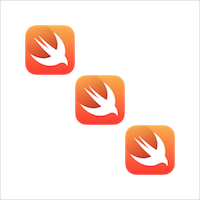
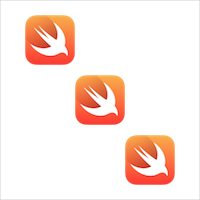
Use `gap` in abreast methods

Changed region(s): [[0.6, 0.6, 0.9, 0.93], [0.12, 0.06, 0.39, 0.39]]

diff --git a/Sources/ConstraintMaker+Abreast.swift b/Sources/ConstraintMaker+Abreast.swift
@@ -29,13 +29,13 @@ extension ConstraintMaker {
     
     /// Make item.top equalTo item2.bottom + constant
     @discardableResult
-    public func below(_ item2: UILayoutSupport, plus constant: CGFloat = 0, at priority: UILayoutPriority = UILayoutPriorityRequired) -> Self {
+    public func below(_ item2: UILayoutSupport, gap constant: CGFloat = 0, at priority: UILayoutPriority = UILayoutPriorityRequired) -> Self {
         return makeConstraint(attribute: .top, relatedBy: .equal, toItem: item2, attribute: .bottom, multiplier: 1, constant: constant, priority: priority)
     }
     
     /// Make item.bottom equalTo item2.top - constant
     @discardableResult
-    public func above(_ item2: UILayoutSupport, minus constant: CGFloat = 0, at priority: UILayoutPriority = UILayoutPriorityRequired) -> Self {
+    public func above(_ item2: UILayoutSupport, gap constant: CGFloat = 0, at priority: UILayoutPriority = UILayoutPriorityRequired) -> Self {
         return makeConstraint(attribute: .bottom, relatedBy: .equal, toItem: item2, attribute: .top, multiplier: 1, constant: -constant, priority: priority)
     }
     
@@ -45,13 +45,13 @@ extension ConstraintMaker {
     
     /// Make item.top equalTo item2.bottom + constant
     @discardableResult
-    public func below(_ item2: Item, plus constant: CGFloat = 0, at priority: UILayoutPriority = UILayoutPriorityRequired) -> Self {
+    public func below(_ item2: Item, gap constant: CGFloat = 0, at priority: UILayoutPriority = UILayoutPriorityRequired) -> Self {
         return top(equalTo: .bottom, of: item2, plus: constant, at: priority)
     }
     
     /// Make item.bottom equalTo item2.top - constant
     @discardableResult
-    public func above(_ item2: Item, minus constant: CGFloat = 0, at priority: UILayoutPriority = UILayoutPriorityRequired) -> Self {
+    public func above(_ item2: Item, gap constant: CGFloat = 0, at priority: UILayoutPriority = UILayoutPriorityRequired) -> Self {
         return bottom(equalTo: .top, of: item2, minus: constant, at: priority)
     }
     
@@ -61,13 +61,13 @@ extension ConstraintMaker {
     
     /// Make item.leading equalTo item2.trailing + constant
     @discardableResult
-    public func after(_ item2: Item, plus constant: CGFloat = 0, at priority: UILayoutPriority = UILayoutPriorityRequired) -> Self {
+    public func after(_ item2: Item, gap constant: CGFloat = 0, at priority: UILayoutPriority = UILayoutPriorityRequired) -> Self {
         return leading(equalTo: .trailing, of: item2, plus: constant, at: priority)
     }
     
     /// Make item.trailing equalTo item2.leading - constant
     @discardableResult
-    public func before(_ item2: Item, minus constant: CGFloat = 0, at priority: UILayoutPriority = UILayoutPriorityRequired) -> Self {
+    public func before(_ item2: Item, gap constant: CGFloat = 0, at priority: UILayoutPriority = UILayoutPriorityRequired) -> Self {
         return trailing(equalTo: .leading, of: item2, minus: constant, at: priority)
     }
     

diff --git a/Documentation/Doc.playground/Pages/Abreast.xcplaygroundpage/Contents.swift b/Documentation/Doc.playground/Pages/Abreast.xcplaygroundpage/Contents.swift
@@ -7,9 +7,9 @@ import FormationLayout
  ## Abreast
  ----
  
-- layout[logo].below(topLayoutGuide, plus: 10)
+- layout[logo].below(topLayoutGuide, gap: 10)
   - logo.top == topLayoutGuide.bottom + 10
-- layout[copyright].above(bottomLayoutGuide, minus: 10)
+- layout[copyright].above(bottomLayoutGuide, gap: 10)
   - copyright.bottom == bottomLayoutGuide.top - 10
  
  */
@@ -17,8 +17,8 @@ import FormationLayout
 demo { canvas, icon1, icon2, icon3 in
     let layout = FormationLayout(rootView: canvas)
     layout[icon1].center(equalTo: canvas)
-    layout[icon2].before(icon1).above(icon1)
-    layout[icon3].after(icon1).below(icon1)
+    layout[icon2].before(icon1).above(icon1, gap: 5)
+    layout[icon3].after(icon1).below(icon1, gap: 5)
 }
 
 //: [Home](Home) | [Previous](@previous) | [Next](@next)

diff --git a/README.md b/README.md
@@ -94,17 +94,17 @@ demo { canvas, icon1, icon2, icon3 in
 
 ### Abreast
 
-- layout[logo].below(topLayoutGuide, plus: 10)
+- layout[logo].below(topLayoutGuide, gap: 10)
   - logo.top == topLayoutGuide.bottom + 10
-- layout[copyright].above(bottomLayoutGuide, minus: 10)
+- layout[copyright].above(bottomLayoutGuide, gap: 10)
   - copyright.bottom == bottomLayoutGuide.top - 10
 
 ```swift
 demo { canvas, icon1, icon2, icon3 in
     let layout = FormationLayout(rootView: canvas)
     layout[icon1].center(equalTo: canvas)
-    layout[icon2].before(icon1).above(icon1)
-    layout[icon3].after(icon1).below(icon1)
+    layout[icon2].before(icon1).above(icon1, gap: 5)
+    layout[icon3].after(icon1).below(icon1, gap: 5)
 }
 ```
 
